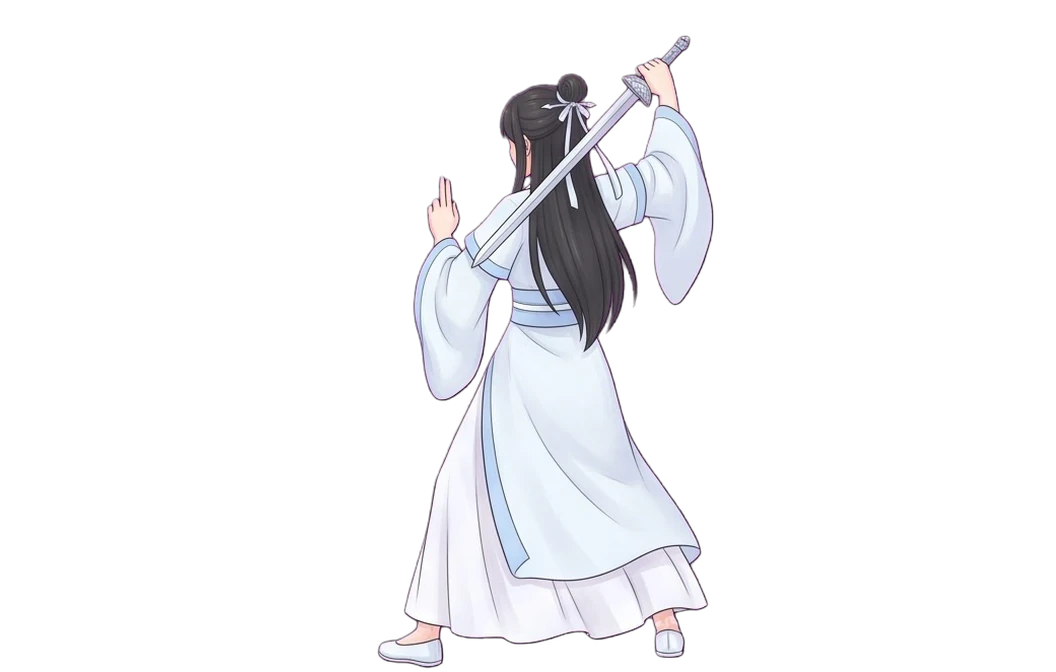
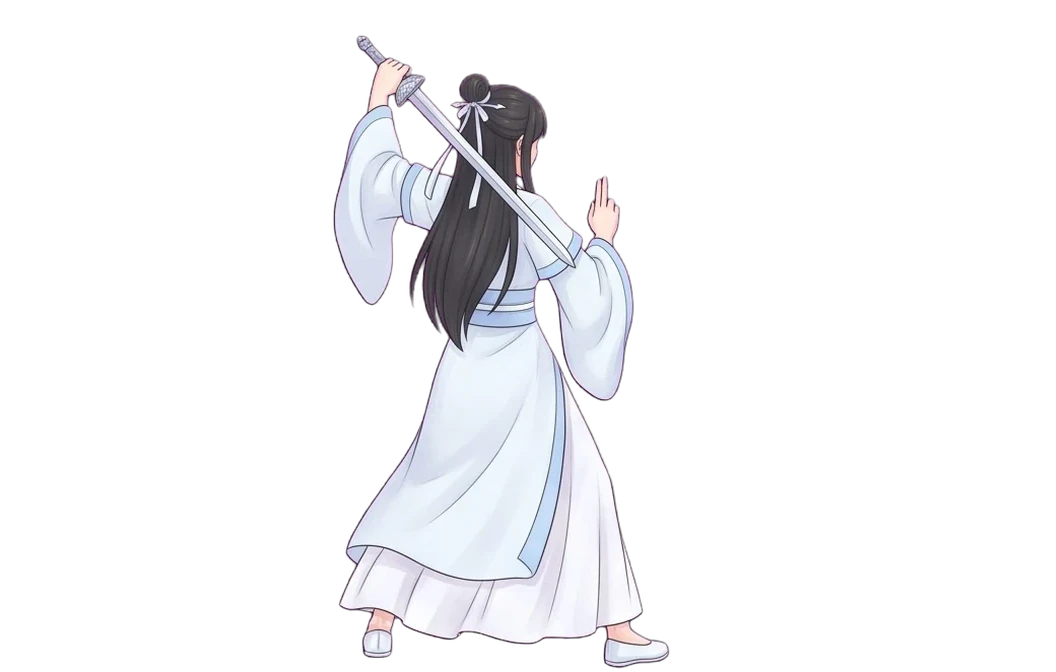
最終版131:女主攻擊神通動作左右翻轉,朝向與其他動作一致
Claude-Session: https://claude.ai/code/session_01Eudv1bj25nFF4NszqJcvVs

Changed region(s): [[0.3125, 0.0312, 0.6875, 1.0]]

diff --git a/index.html b/index.html
@@ -16405,7 +16405,7 @@ window.SFX = (() => {
 })();
 
 /* v115 主角背面戰鬥動作圖(重要戰鬥用) */
-window.BP114 = {"F_o1_1": "assets/BP/F_o1_1.webp?v=845711f1", "F_o1_2": "assets/BP/F_o1_2.webp?v=63e0ea8a", "F_o1_3": "assets/BP/F_o1_3.webp?v=4c8fedf0", "F_o1_4": "assets/BP/F_o1_4.webp?v=2d3a9938", "F_o1_5": "assets/BP/F_o1_5.webp?v=39089390", "F_o1_6": "assets/BP/F_o1_6.webp?v=665fdf49", "F_o1_7": "assets/BP/F_o1_7.webp?v=a421ed48", "F_o1_8": "assets/BP/F_o1_8.webp?v=46d02e9f", "F_o1_9": "assets/BP/F_o1_9.webp?v=71e7e51b", "F_o2_1": "assets/BP/F_o2_1.webp?v=05a69ca3", "F_o2_2": "assets/BP/F_o2_2.webp?v=b4ad1367", "F_o2_3": "assets/BP/F_o2_3.webp?v=b0792051", "F_o2_4": "assets/BP/F_o2_4.webp?v=675eb247", "F_o2_5": "assets/BP/F_o2_5.webp?v=3e6b4256", "F_o2_6": "assets/BP/F_o2_6.webp?v=a83ed8f2", "F_o2_7": "assets/BP/F_o2_7.webp?v=5385903d", "F_o2_8": "assets/BP/F_o2_8.webp?v=813db133", "F_o2_9": "assets/BP/F_o2_9.webp?v=fe97a297", "F_o3_1": "assets/BP/F_o3_1.webp?v=bb0a3107", "F_o3_2": "assets/BP/F_o3_2.webp?v=427aa689", "F_o3_3": "assets/BP/F_o3_3.webp?v=dfce15e0", "F_o3_4": "assets/BP/F_o3_4.webp?v=72153950", "F_o3_5": "assets/BP/F_o3_5.webp?v=667aea18", "F_o3_6": "assets/BP/F_o3_6.webp?v=0a9314ea", "F_o3_7": "assets/BP/F_o3_7.webp?v=e8cbb446", "F_o3_8": "assets/BP/F_o3_8.webp?v=b0c55eaa", "F_o3_9": "assets/BP/F_o3_9.webp?v=72363e9e", "F_o4_1": "assets/BP/F_o4_1.webp?v=0a7498b0", "F_o4_2": "assets/BP/F_o4_2.webp?v=0d6c24b1", "F_o4_3": "assets/BP/F_o4_3.webp?v=b33cbe7c", "F_o4_4": "assets/BP/F_o4_4.webp?v=ee9cef42", "F_o4_5": "assets/BP/F_o4_5.webp?v=1df47660", "F_o4_6": "assets/BP/F_o4_6.webp?v=7e19d22c", "F_o4_7": "assets/BP/F_o4_7.webp?v=23243e00", "F_o4_8": "assets/BP/F_o4_8.webp?v=41ff7a57", "F_o4_9": "assets/BP/F_o4_9.webp?v=fdd62696", "F_o5_1": "assets/BP/F_o5_1.webp?v=1acbb409", "F_o5_2": "assets/BP/F_o5_2.webp?v=057ef934", "F_o5_3": "assets/BP/F_o5_3.webp?v=ebf9998e", "F_o5_4": "assets/BP/F_o5_4.webp?v=83b6597d", "F_o5_5": "assets/BP/F_o5_5.webp?v=2527e5a5", "F_o5_6": "assets/BP/F_o5_6.webp?v=67d0d5f1", "F_o5_7": "assets/BP/F_o5_7.webp?v=4fe41938", "F_o5_8": "assets/BP/F_o5_8.webp?v=a7d74ed8", "F_o5_9": "assets/BP/F_o5_9.webp?v=3954470c", "M_o1_1": "assets/BP/M_o1_1.webp?v=2560faa7", "M_o1_2": "assets/BP/M_o1_2.webp?v=7ad66686", "M_o1_3": "assets/BP/M_o1_3.webp?v=49844ea7", "M_o1_4": "assets/BP/M_o1_4.webp?v=e28f9fdc", "M_o1_5": "assets/BP/M_o1_5.webp?v=b9ccd80b", "M_o1_6": "assets/BP/M_o1_6.webp?v=e9083ee8", "M_o1_7": "assets/BP/M_o1_7.webp?v=58ceecdd", "M_o1_8": "assets/BP/M_o1_8.webp?v=cfe7d049", "M_o1_9": "assets/BP/M_o1_9.webp?v=c5d17e5e", "M_o2_1": "assets/BP/M_o2_1.webp?v=24d5051a", "M_o2_2": "assets/BP/M_o2_2.webp?v=11bec308", "M_o2_3": "assets/BP/M_o2_3.webp?v=3aa37fa9", "M_o2_4": "assets/BP/M_o2_4.webp?v=ae6f6207", "M_o2_5": "assets/BP/M_o2_5.webp?v=3c5e7fa2", "M_o2_6": "assets/BP/M_o2_6.webp?v=9e14adff", "M_o2_7": "assets/BP/M_o2_7.webp?v=84b7e440", "M_o2_8": "assets/BP/M_o2_8.webp?v=5128e793", "M_o2_9": "assets/BP/M_o2_9.webp?v=2efc8862"};
+window.BP114 = {"F_o1_1": "assets/BP/F_o1_1.webp?v=845711f1", "F_o1_2": "assets/BP/F_o1_2.webp?v=63e0ea8a", "F_o1_3": "assets/BP/F_o1_3.webp?v=4c8fedf0", "F_o1_4": "assets/BP/F_o1_4.webp?v=2d3a9938", "F_o1_5": "assets/BP/F_o1_5.webp?v=39089390", "F_o1_6": "assets/BP/F_o1_6.webp?v=665fdf49", "F_o1_7": "assets/BP/F_o1_7.webp?v=a421ed48", "F_o1_8": "assets/BP/F_o1_8.webp?v=46d02e9f", "F_o1_9": "assets/BP/F_o1_9.webp?v=71e7e51b", "F_o2_1": "assets/BP/F_o2_1.webp?v=05a69ca3", "F_o2_2": "assets/BP/F_o2_2.webp?v=b4ad1367", "F_o2_3": "assets/BP/F_o2_3.webp?v=5b5c3b9e", "F_o2_4": "assets/BP/F_o2_4.webp?v=675eb247", "F_o2_5": "assets/BP/F_o2_5.webp?v=3e6b4256", "F_o2_6": "assets/BP/F_o2_6.webp?v=a83ed8f2", "F_o2_7": "assets/BP/F_o2_7.webp?v=5385903d", "F_o2_8": "assets/BP/F_o2_8.webp?v=813db133", "F_o2_9": "assets/BP/F_o2_9.webp?v=fe97a297", "F_o3_1": "assets/BP/F_o3_1.webp?v=bb0a3107", "F_o3_2": "assets/BP/F_o3_2.webp?v=427aa689", "F_o3_3": "assets/BP/F_o3_3.webp?v=85f7357a", "F_o3_4": "assets/BP/F_o3_4.webp?v=72153950", "F_o3_5": "assets/BP/F_o3_5.webp?v=667aea18", "F_o3_6": "assets/BP/F_o3_6.webp?v=0a9314ea", "F_o3_7": "assets/BP/F_o3_7.webp?v=e8cbb446", "F_o3_8": "assets/BP/F_o3_8.webp?v=b0c55eaa", "F_o3_9": "assets/BP/F_o3_9.webp?v=72363e9e", "F_o4_1": "assets/BP/F_o4_1.webp?v=0a7498b0", "F_o4_2": "assets/BP/F_o4_2.webp?v=0d6c24b1", "F_o4_3": "assets/BP/F_o4_3.webp?v=64f0bf7d", "F_o4_4": "assets/BP/F_o4_4.webp?v=ee9cef42", "F_o4_5": "assets/BP/F_o4_5.webp?v=1df47660", "F_o4_6": "assets/BP/F_o4_6.webp?v=7e19d22c", "F_o4_7": "assets/BP/F_o4_7.webp?v=23243e00", "F_o4_8": "assets/BP/F_o4_8.webp?v=41ff7a57", "F_o4_9": "assets/BP/F_o4_9.webp?v=fdd62696", "F_o5_1": "assets/BP/F_o5_1.webp?v=1acbb409", "F_o5_2": "assets/BP/F_o5_2.webp?v=057ef934", "F_o5_3": "assets/BP/F_o5_3.webp?v=8cf69a7a", "F_o5_4": "assets/BP/F_o5_4.webp?v=83b6597d", "F_o5_5": "assets/BP/F_o5_5.webp?v=2527e5a5", "F_o5_6": "assets/BP/F_o5_6.webp?v=67d0d5f1", "F_o5_7": "assets/BP/F_o5_7.webp?v=4fe41938", "F_o5_8": "assets/BP/F_o5_8.webp?v=a7d74ed8", "F_o5_9": "assets/BP/F_o5_9.webp?v=3954470c", "M_o1_1": "assets/BP/M_o1_1.webp?v=2560faa7", "M_o1_2": "assets/BP/M_o1_2.webp?v=7ad66686", "M_o1_3": "assets/BP/M_o1_3.webp?v=49844ea7", "M_o1_4": "assets/BP/M_o1_4.webp?v=e28f9fdc", "M_o1_5": "assets/BP/M_o1_5.webp?v=b9ccd80b", "M_o1_6": "assets/BP/M_o1_6.webp?v=e9083ee8", "M_o1_7": "assets/BP/M_o1_7.webp?v=58ceecdd", "M_o1_8": "assets/BP/M_o1_8.webp?v=cfe7d049", "M_o1_9": "assets/BP/M_o1_9.webp?v=c5d17e5e", "M_o2_1": "assets/BP/M_o2_1.webp?v=24d5051a", "M_o2_2": "assets/BP/M_o2_2.webp?v=11bec308", "M_o2_3": "assets/BP/M_o2_3.webp?v=3aa37fa9", "M_o2_4": "assets/BP/M_o2_4.webp?v=ae6f6207", "M_o2_5": "assets/BP/M_o2_5.webp?v=3c5e7fa2", "M_o2_6": "assets/BP/M_o2_6.webp?v=9e14adff", "M_o2_7": "assets/BP/M_o2_7.webp?v=84b7e440", "M_o2_8": "assets/BP/M_o2_8.webp?v=5128e793", "M_o2_9": "assets/BP/M_o2_9.webp?v=2efc8862"};
 
 /* v122 本命絕學過場特寫 */
 window.UC121 = {"F_sword": "assets/UC/F_sword.webp?v=d6b677e1", "F_magic": "assets/UC/F_magic.webp?v=c86b9151", "F_body": "assets/UC/F_body.webp?v=ed430cdf", "F_pill": "assets/UC/F_pill.webp?v=a4586067", "F_o2_sword": "assets/UC/F_o2_sword.webp?v=df65fb9d", "F_o2_magic": "assets/UC/F_o2_magic.webp?v=ee4d66b8", "F_o2_body": "assets/UC/F_o2_body.webp?v=a7e94bcc", "F_o2_pill": "assets/UC/F_o2_pill.webp?v=f8ec9a1b", "F_o3_sword": "assets/UC/F_o3_sword.webp?v=70c4c692", "F_o3_magic": "assets/UC/F_o3_magic.webp?v=b4d94d57", "F_o3_body": "assets/UC/F_o3_body.webp?v=57cbd44f", "F_o3_pill": "assets/UC/F_o3_pill.webp?v=cf52e338", "F_o4_sword": "assets/UC/F_o4_sword.webp?v=fef98040", "F_o4_magic": "assets/UC/F_o4_magic.webp?v=020c8609", "F_o4_body": "assets/UC/F_o4_body.webp?v=eded408f", "F_o4_pill": "assets/UC/F_o4_pill.webp?v=be557bbf", "F_o5_sword": "assets/UC/F_o5_sword.webp?v=6403e1ea", "F_o5_magic": "assets/UC/F_o5_magic.webp?v=ef6c83a6", "F_o5_body": "assets/UC/F_o5_body.webp?v=36b2205c", "F_o5_pill": "assets/UC/F_o5_pill.webp?v=0b16eaee", "M_sword": "assets/UC/M_sword.webp?v=e231c3ac", "M_magic": "assets/UC/M_magic.webp?v=1e32114b", "M_body": "assets/UC/M_body.webp?v=5d231bd2", "M_pill": "assets/UC/M_pill.webp?v=a7f87dd1"};
@@ -16449,7 +16449,7 @@ window.QT124 = {"dot": "assets/QT/dot.webp?v=beeeb71c", "tg": "assets/QT/tg.webp
   const BPX = window.BP114 || {};
   const pose = n => { const g = state.gender === 'f' ? 'F_' : 'M_', lk = state.look || 'o1'; return BPX[g + lk + '_' + n] || BPX[g + 'o1_' + n] || ''; };
   /* 各出招動作的「劍尖附近」在圖框內的位置(由圖自動量出;其他外觀暫用新手服的值) */
-  const TIPS = { F_o1_2: [.906, .191], F_o1_3: [.776, .413], F_o1_8: [.965, .038], M_o1_2: [.82, .533], M_o1_3: [.702, .144], M_o1_8: [.966, .053], M_o2_2: [.998, .159], M_o2_3: [.379, .263], M_o2_8: [.908, .25], F_o2_2: [.969, .167], F_o2_3: [.445, .39], F_o2_8: [.421, .208], F_o3_2: [.968, .167], F_o3_3: [.445, .39], F_o3_8: [.421, .208], F_o4_2: [.967, .168], F_o4_3: [.445, .39], F_o4_8: [.421, .208], F_o5_2: [.981, .168], F_o5_3: [.445, .39], F_o5_8: [.421, .208] };
+  const TIPS = { F_o1_2: [.906, .191], F_o1_3: [.776, .413], F_o1_8: [.965, .038], M_o1_2: [.82, .533], M_o1_3: [.702, .144], M_o1_8: [.966, .053], M_o2_2: [.998, .159], M_o2_3: [.379, .263], M_o2_8: [.908, .25], F_o2_2: [.969, .167], F_o2_3: [.546, .39], F_o2_8: [.421, .208], F_o3_2: [.968, .167], F_o3_3: [.548, .39], F_o3_8: [.421, .208], F_o4_2: [.967, .168], F_o4_3: [.546, .39], F_o4_8: [.421, .208], F_o5_2: [.981, .168], F_o5_3: [.548, .39], F_o5_8: [.421, .208] };
   const tip = n => { const g = state.gender === 'f' ? 'F_' : 'M_'; return TIPS[g + (state.look || 'o1') + '_' + n] || TIPS[g + 'o1_' + n] || [.6, .35]; };
   const ULTC = { '劍氣縱橫': '#bfe3ff', '五行法陣': '#c4b5fd', '金身怒目': '#fcd34d', '丹爐煉化': '#fb923c' };
   let poseT = 0;
